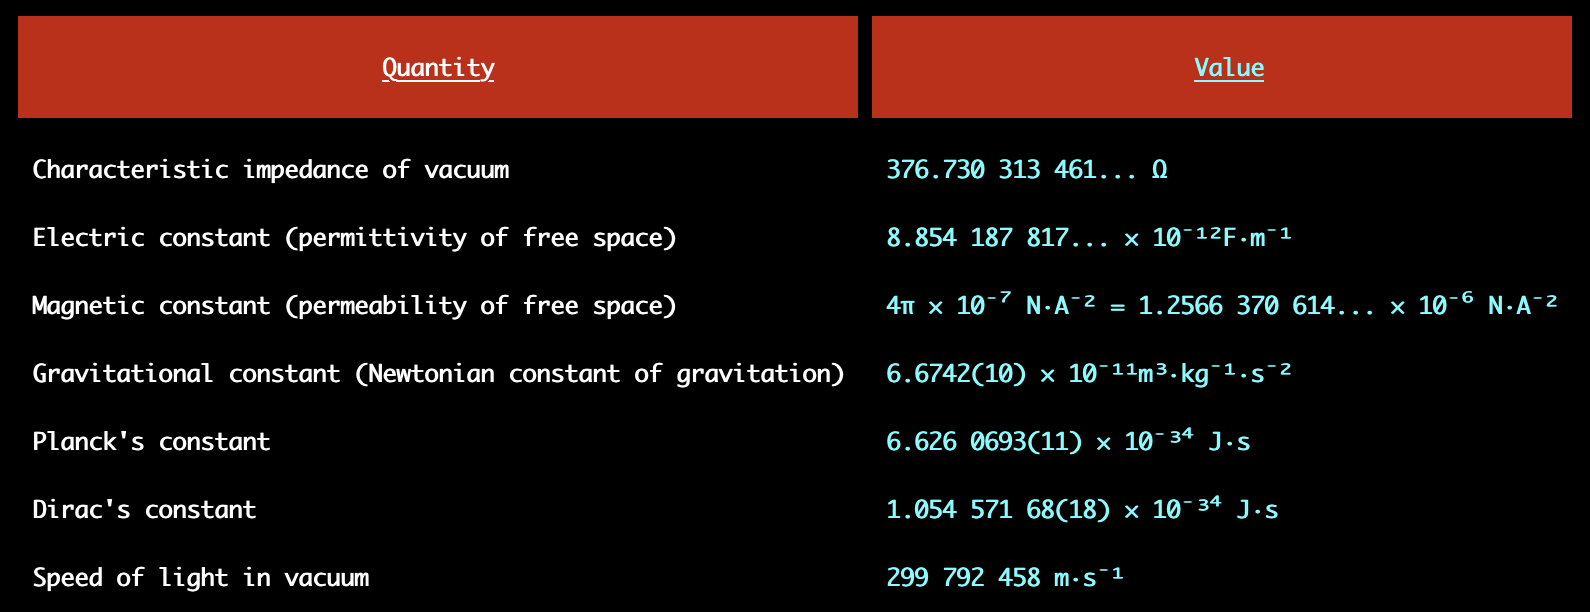
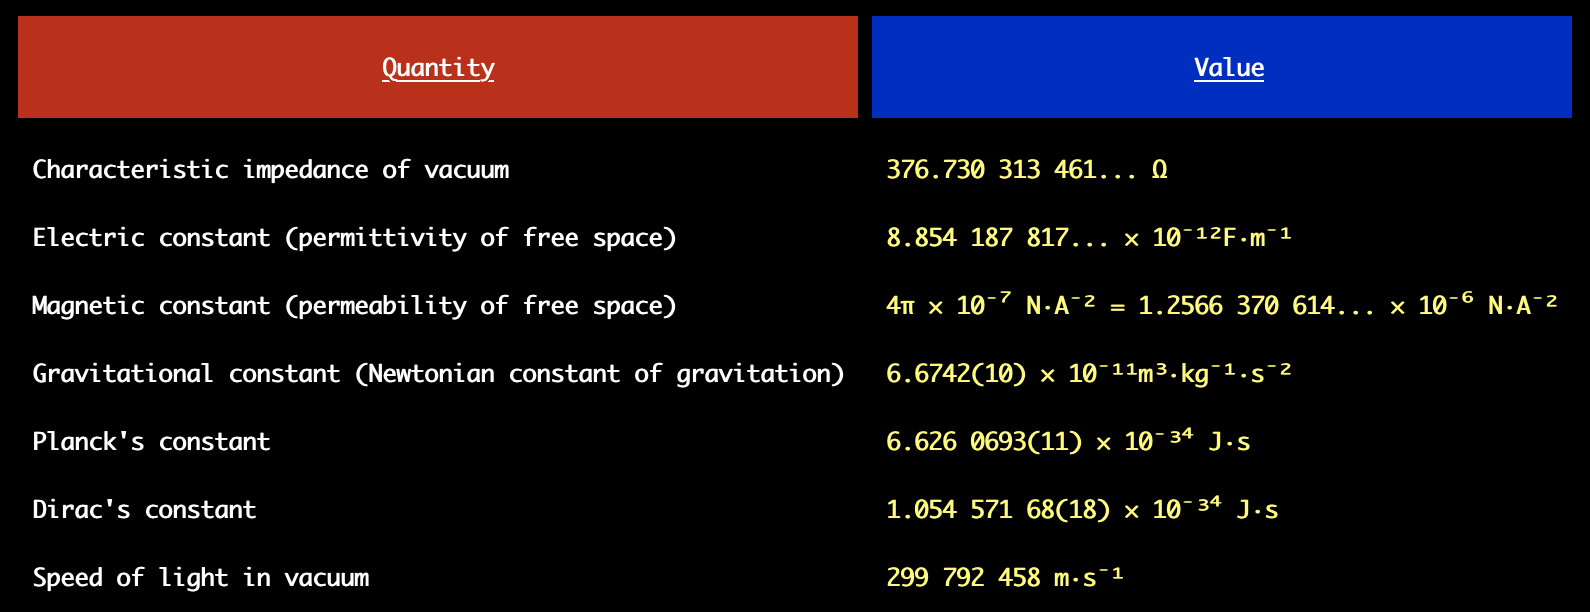
Updated universal constants sample

diff --git a/samples/universal_constants.cpp b/samples/universal_constants.cpp
@@ -35,7 +35,11 @@ int main() {
   // Table.column(index) is used to access a particular column
   // You can use this to access and format a specific column
   universal_constants.column(1).format()
-    .font_color(Color::cyan);
+    .font_color(Color::yellow);
 
+  universal_constants[0][1].format()
+    .font_background_color(Color::blue)
+    .font_color(Color::white);
+    
   std::cout << universal_constants << std::endl;
 }	
